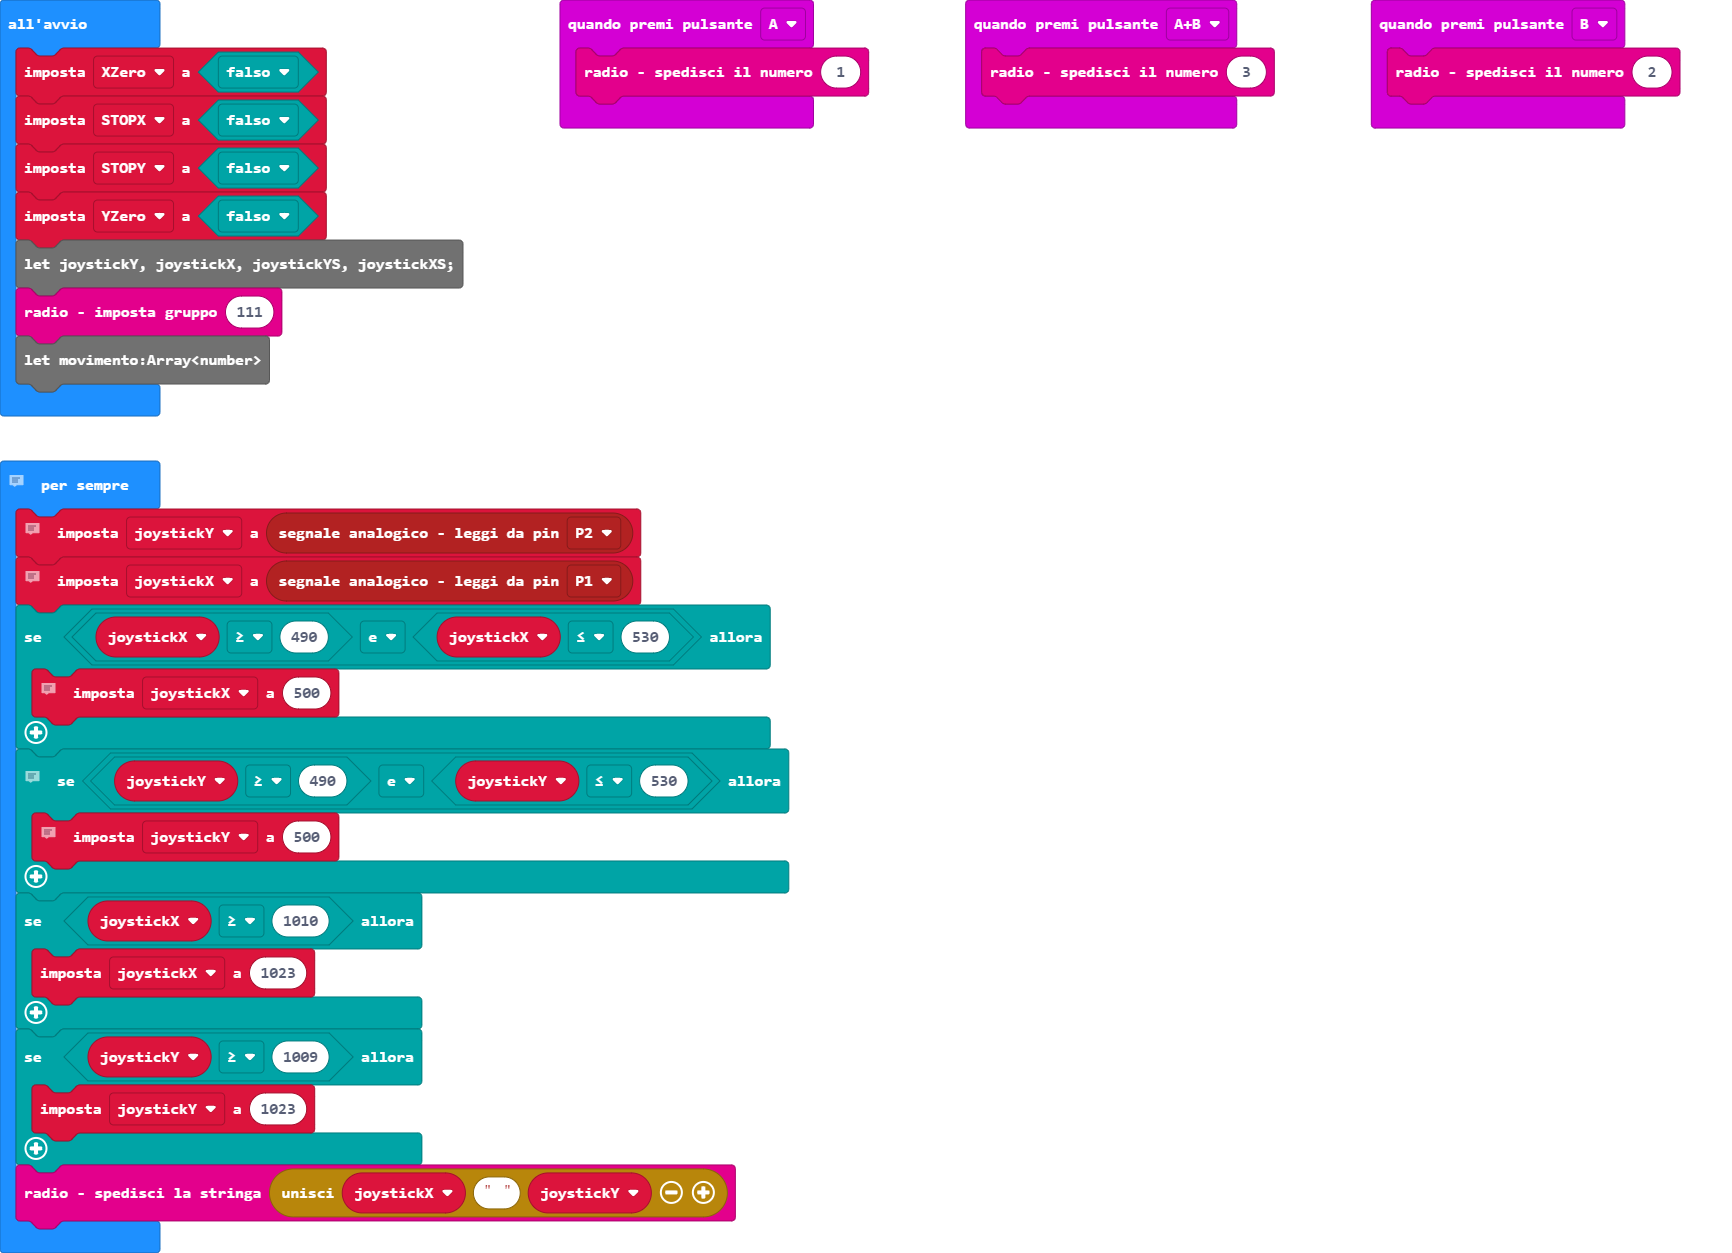
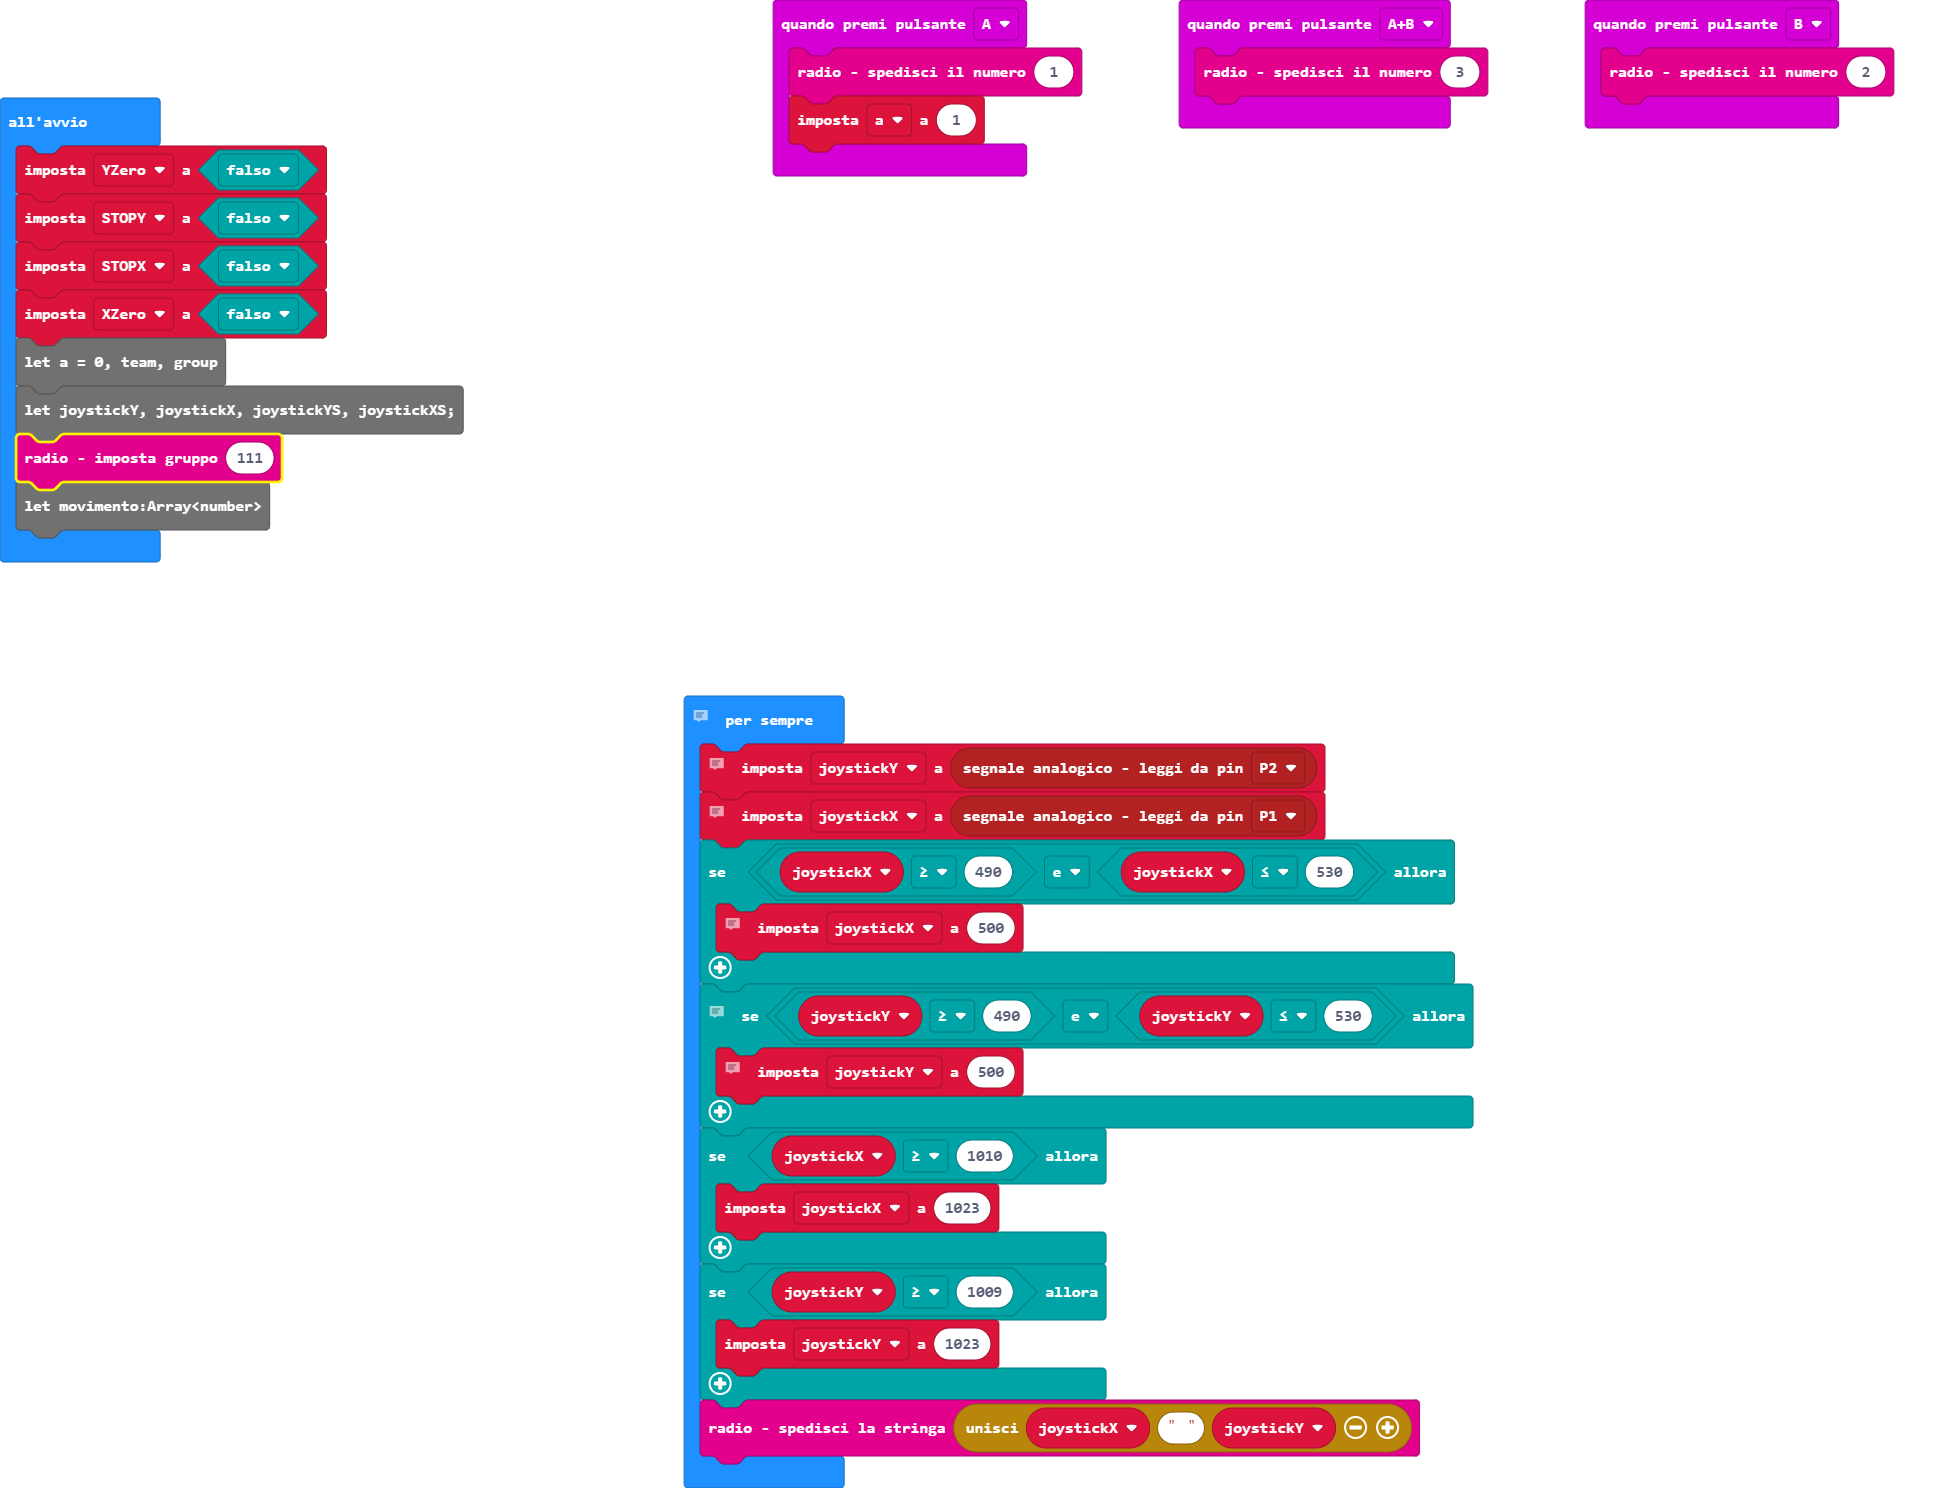
removed junk

diff --git a/main.ts b/main.ts
@@ -1,5 +1,6 @@
 input.onButtonPressed(Button.A, function () {
     radio.sendNumber(1)
+    a = 1
 })
 input.onButtonPressed(Button.AB, function () {
     radio.sendNumber(3)
@@ -7,10 +8,11 @@ input.onButtonPressed(Button.AB, function () {
 input.onButtonPressed(Button.B, function () {
     radio.sendNumber(2)
 })
-let XZero = false
-let STOPX = false
-let STOPY = false
 let YZero = false
+let STOPY = false
+let STOPX = false
+let XZero = false
+let a = 0, team, group
 let joystickY, joystickX, joystickYS, joystickXS;
 radio.setGroup(111)
 let movimento:Array<number>
